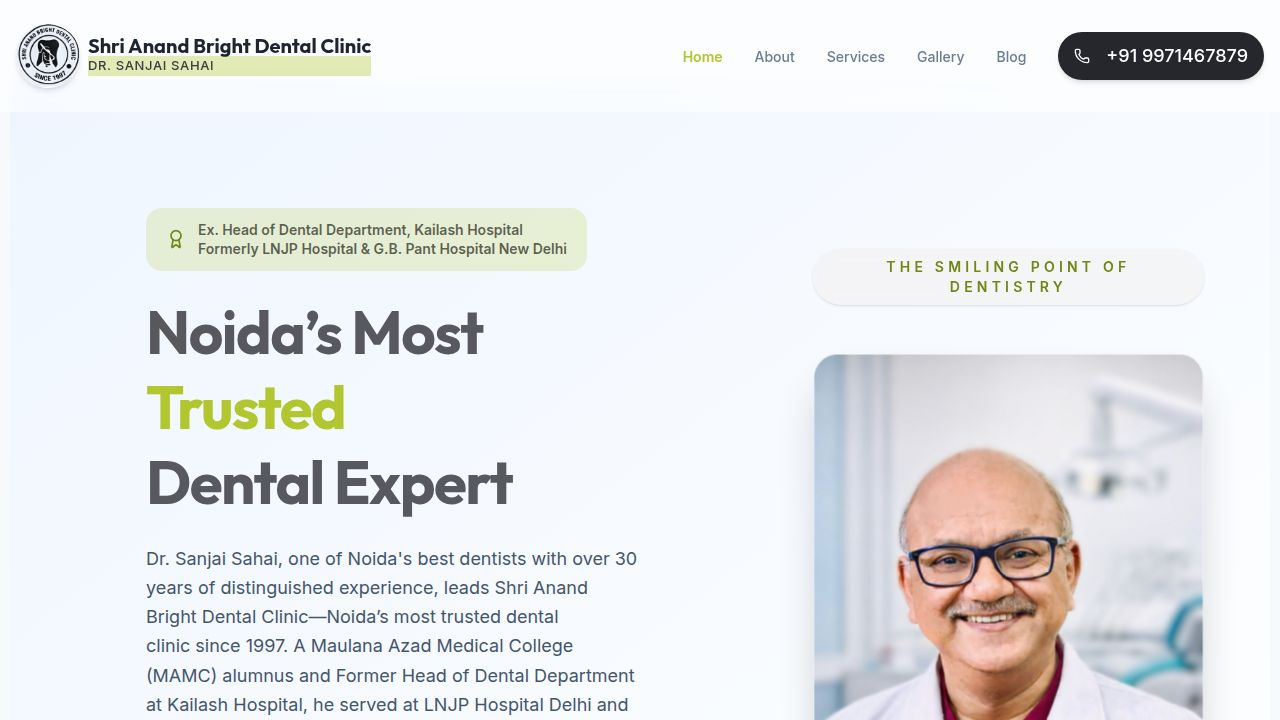
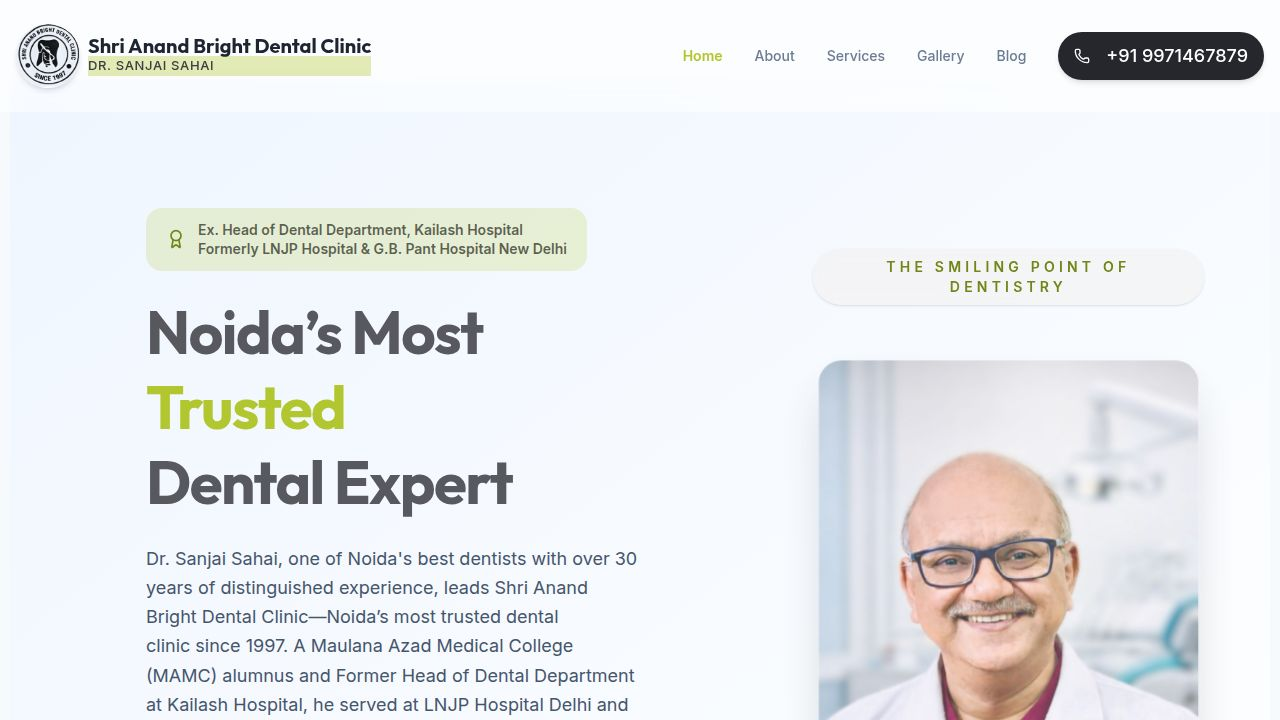
Update website paths to work with a custom domain
Adjusted Vite configuration and component image paths to correctly reference assets when deployed to a root domain, resolving issues with content not loading on drsanjaisahai.in.

Replit-Commit-Author: Agent
Replit-Commit-Session-Id: 53026c26-9e4d-49a1-b554-760bd5f3bdb2
Replit-Commit-Checkpoint-Type: full_checkpoint
Replit-Commit-Event-Id: 3f3d7772-2cd8-4999-aef0-0058e7f52d72
Replit-Commit-Screenshot-Url: https://storage.googleapis.com/screenshot-production-us-central1/1ec2a77f-9ef1-43e6-8072-b4ac018818dc/53026c26-9e4d-49a1-b554-760bd5f3bdb2/TM10chK
Replit-Helium-Checkpoint-Created: true

diff --git a/client/src/pages/Gallery.tsx b/client/src/pages/Gallery.tsx
@@ -27,20 +27,20 @@ export default function Gallery() {
 
         <div className="grid md:grid-cols-2 gap-8 mb-24">
            <BeforeAfter 
-             before="/shrianand-website/images/gallery/whitening-before.jpg" 
-             after="/shrianand-website/images/gallery/whitening-after.jpg" 
+             before="/images/gallery/whitening-before.jpg" 
+             after="/images/gallery/whitening-after.jpg" 
            />
            <BeforeAfter 
-             before="/shrianand-website/images/gallery/braces-before.jpg" 
-             after="/shrianand-website/images/gallery/braces-after.jpg" 
+             before="/images/gallery/braces-before.jpg" 
+             after="/images/gallery/braces-after.jpg" 
            />
            <BeforeAfter 
-             before="/shrianand-website/images/gallery/dentures-before.jpg" 
-             after="/shrianand-website/images/gallery/dentures-after.jpg" 
+             before="/images/gallery/dentures-before.jpg" 
+             after="/images/gallery/dentures-after.jpg" 
            />
            <BeforeAfter 
-             before="/shrianand-website/images/gallery/patient-1.jpg" 
-             after="/shrianand-website/images/gallery/patient-2.jpg" 
+             before="/images/gallery/patient-1.jpg" 
+             after="/images/gallery/patient-2.jpg" 
            />
         </div>
 
@@ -52,10 +52,10 @@ export default function Gallery() {
 
         <div className="grid grid-cols-2 md:grid-cols-4 gap-6">
           {[
-            { src: "/shrianand-website/images/gallery/xray-1.jpg", label: "Digital Diagnostics" },
-            { src: "/shrianand-website/images/gallery/clinic-1.jpg", label: "Modern Operatory" },
-            { src: "/shrianand-website/images/gallery/clinic-2.jpg", label: "Advanced Sterilization" },
-            { src: "/shrianand-website/images/gallery/whitening-after.jpg", label: "Precision Care" }
+            { src: "/images/gallery/xray-1.jpg", label: "Digital Diagnostics" },
+            { src: "/images/gallery/clinic-1.jpg", label: "Modern Operatory" },
+            { src: "/images/gallery/clinic-2.jpg", label: "Advanced Sterilization" },
+            { src: "/images/gallery/whitening-after.jpg", label: "Precision Care" }
           ].map((item, idx) => (
             <div key={idx} className="group relative overflow-hidden rounded-2xl shadow-lg aspect-square bg-slate-200">
               <img src={item.src} alt={item.label} className="w-full h-full object-cover transition-transform duration-700 group-hover:scale-110" />

diff --git a/client/src/pages/Home.tsx b/client/src/pages/Home.tsx
@@ -15,22 +15,22 @@ const services = [
   {
     title: "Root Canal Therapy",
     description: "Pain-free root canal treatments using advanced rotary endodontics.",
-    icon: <img src="/shrianand-website/images/root_canal.png" alt="Root Canal" className="w-12 h-12 object-contain" />,
+    icon: <img src="/images/root_canal.png" alt="Root Canal" className="w-12 h-12 object-contain" />,
   },
   {
     title: "Dental Implants",
     description: "Permanent solutions for missing teeth with natural-looking results.",
-    icon: <img src="/shrianand-website/images/implant.png" alt="Dental Implant" className="w-12 h-12 object-contain" />,
+    icon: <img src="/images/implant.png" alt="Dental Implant" className="w-12 h-12 object-contain" />,
   },
   {
     title: "Teeth Whitening",
     description: "Professional whitening services for a brighter, confident smile.",
-    icon: <img src="/shrianand-website/images/teeth_whitening.png" alt="Teeth Whitening" className="w-12 h-12 object-contain" />,
+    icon: <img src="/images/teeth_whitening.png" alt="Teeth Whitening" className="w-12 h-12 object-contain" />,
   },
   {
     title: "Orthodontics",
     description: "Braces and aligners to correct alignment and bite issues.",
-    icon: <img src="/shrianand-website/images/aligner.png" alt="Orthodontics" className="w-12 h-12 object-contain" />,
+    icon: <img src="/images/aligner.png" alt="Orthodontics" className="w-12 h-12 object-contain" />,
   },
 ];
 
@@ -109,7 +109,7 @@ export default function Home() {
               >
                 <div className="rounded-3xl shadow-2xl overflow-hidden w-full relative bg-white aspect-[3/4]">
                   <img
-                    src="/shrianand-website/images/dr-sanjai-sahai.jpeg"
+                    src="/images/dr-sanjai-sahai.jpeg"
                     alt="Dr. Sanjai Sahai"
                     className="w-full h-full object-cover object-top hover:scale-[1.02] transition-transform duration-500"
                   />

diff --git a/client/src/components/layout/Navbar.tsx b/client/src/components/layout/Navbar.tsx
@@ -37,7 +37,7 @@ export function Navbar() {
         <Link href="/" className="flex items-center gap-2 group">
           <div className="w-16 h-16 rounded-full overflow-hidden flex items-center justify-center bg-white shadow-md group-hover:scale-105 transition-transform shrink-0">
             <img 
-              src="/shrianand-website/images/logo/logo-512.png" 
+              src="/images/logo/logo-512.png" 
               alt="Shri Anand Bright Dental Clinic Logo" 
               className="w-full h-full object-cover scale-[1.45]" 
               style={{ imageRendering: '-webkit-optimize-contrast' }}

diff --git a/client/src/pages/About.tsx b/client/src/pages/About.tsx
@@ -21,7 +21,7 @@ export default function About() {
           <div className="lg:w-1/3">
             <div className="sticky top-24">
               <img 
-                src="/shrianand-website/images/dr-sanjai-sahai-about.jpeg" 
+                src="/images/dr-sanjai-sahai-about.jpeg" 
                 alt="Dr. Sanjai Sahai" 
                 className="w-full aspect-[3/4] object-cover rounded-2xl shadow-xl hover:scale-[1.02] transition-all duration-500" 
               />

diff --git a/vite.config.ts b/vite.config.ts
@@ -6,7 +6,7 @@ import runtimeErrorOverlay from "@replit/vite-plugin-runtime-error-modal";
 import { metaImagesPlugin } from "./vite-plugin-meta-images";
 
 export default defineConfig({
-  base: "/shrianand-website/",
+  base: "/",
   plugins: [
     react(),
     runtimeErrorOverlay(),
